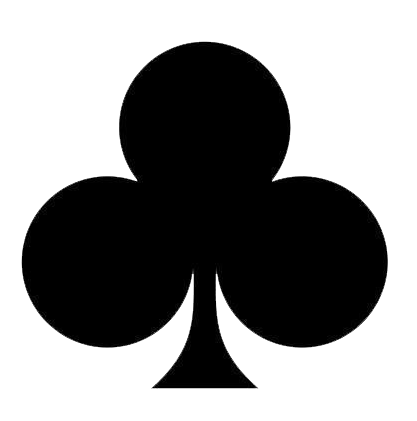
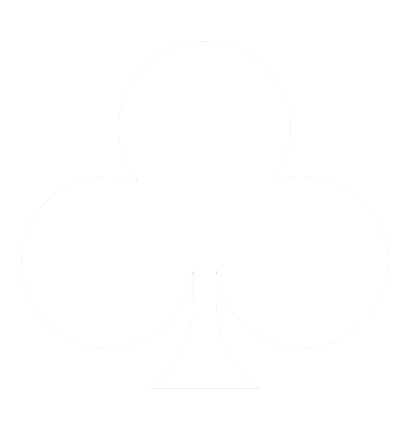
Made some changes

diff --git a/team/css/style.css b/team/css/style.css
@@ -13,12 +13,58 @@ main {
 
     display: flex;
     gap: 2em;
+
+    background-color: rgb(14 25 37);
+
+    position: relative;
+    overflow: hidden;
+}
+
+main::before {
+    content: '';
+    background-image: url(../img/clubs.png);
+    background-size: cover;
+    width: 4em;
+    height: 4em;
+    position: absolute;
+    top: 0;
+    left: 0;
+    transform: rotate(-45deg);
+}
+
+main::after {
+    content: '';
+    background-image: url(../img/heart.png);
+    background-size: cover;
+    width: 4em;
+    height: 4em;
+    position: absolute;
+    top: 0.5em;
+    right: 0.5em;
+    transform: rotate(45deg);
 }
 
 section:first-of-type {
     display: flex;
     flex-wrap: wrap;
     gap: 1em;
+
+    position: relative;
+}
+
+section:first-of-type::before {
+    content: '';
+    background-image: url(../img/diamonds.png);
+    background-size: contain;
+    background-repeat: no-repeat;
+    background-position: center;
+    width: 4em;
+    height: 4em;
+    position: absolute;
+    bottom: -2em;
+    left: -2em;
+    /* z-index: -1; */
+    transform: rotate(-135deg);
 }
 
 section:first-of-type button {
@@ -35,11 +81,12 @@ section:first-of-type button {
     box-shadow: 0px 0px 26px -3px rgba(0,0,0,0.33);
 
     cursor: pointer;
+    z-index: 1;
 }
 
 section:first-of-type button img {
     width: 100%;
-    max-height: 26.5em;
+    max-height: 26.6em;
     height: 100%;
     border-radius: 1em;
 
@@ -58,6 +105,18 @@ section:nth-of-type(2) {
     flex-direction: column;
 
     transform-style: preserve-3d;
+}
+
+section:nth-of-type(2)::before {
+    content: '';
+    background-image: url(../img/spades.png);
+    background-size: cover;
+    width: 4em;
+    height: 4em;
+    position: absolute;
+    bottom: -2em;
+    right: -2em;
+    transform: rotate(135deg);
 }
 
 section:nth-of-type(2) div:first-of-type {

diff --git a/team/index.html b/team/index.html
@@ -15,16 +15,16 @@
     <main>
         <section>
             <button class="casper">
-                <img src="img/ine1.jpg" alt="">
+                <img src="img/cardcasper.jpeg" alt="Visitekaartje Casper">
             </button>
             <button class="ine">
-                <img src="img/card-ine.png" alt="Visitekaartje Ine">
+                <img src="img/cardine.png" alt="Visitekaartje Ine">
             </button>
             <button class="jeffrey">
-                <img src="img/ine6.jpg" alt="">
+                <img src="img/cardjeffrey.png" alt="Visitekaartje Jeffrey">
             </button>
             <button class="hilal">
-                <img src="img/ine7.jpg" alt="">
+                <img src="img/cardhilal.png" alt="Visitekaartje Hilal">
             </button>
         </section>
         <section>

diff --git a/team/js/script.js b/team/js/script.js
@@ -35,7 +35,7 @@ back.addEventListener("click", function() {
 })
 
 cardCasper.addEventListener("click", function() {
-    back.src = "../img/ine7.jpg"
+    back.src = "https://casperdennijs.github.io/visitekaartje/"
     front.classList.add('flip')
     back.classList.add('back')
 })
